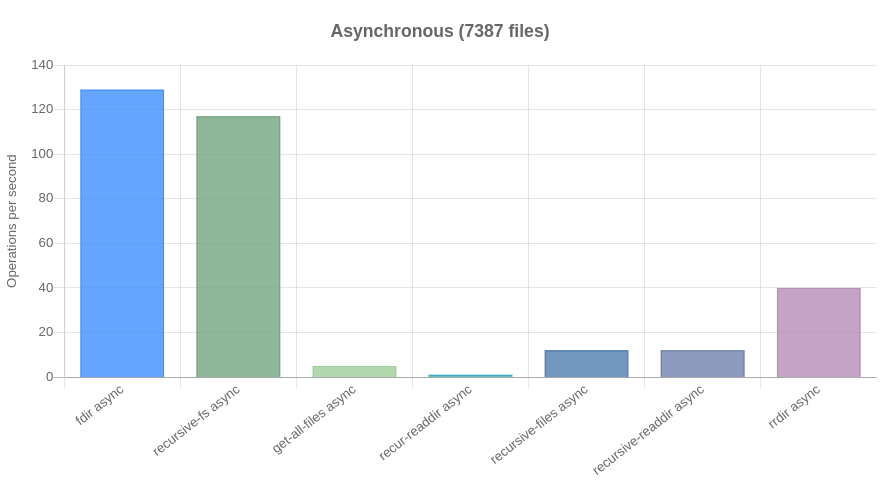
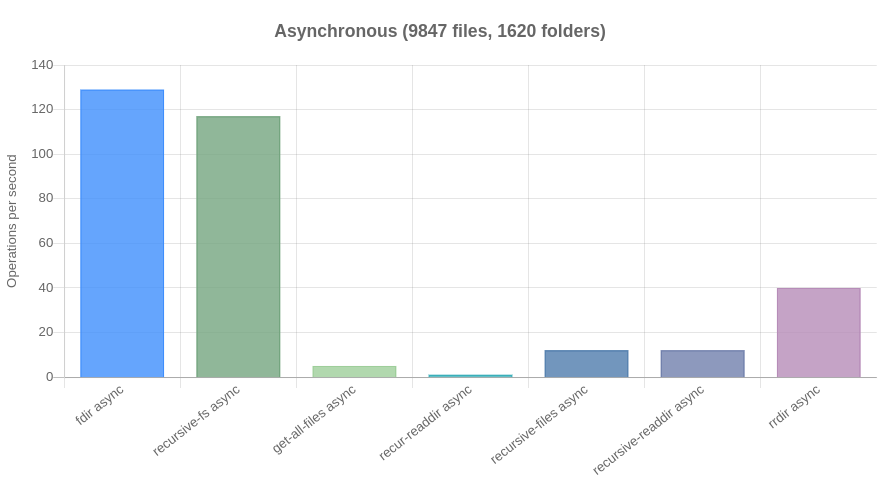
fix: correct file count in benchmarks

Changed region(s): [[0.3068, 0.0303, 0.7057, 0.0909]]

diff --git a/benchmark.js b/benchmark.js
@@ -12,7 +12,7 @@ const recursiveFs = require("recursive-fs");
 const b = require("benny");
 
 b.suite(
-  "Synchronous (7387 files)",
+  "Synchronous (9847 files, 1620 folders)",
   b.add("fdir sync", () => {
     fdir.sync("node_modules");
   }),
@@ -40,7 +40,7 @@ b.suite(
 );
 
 b.suite(
-  "Asynchronous (7387 files)",
+  "Asynchronous (9847 files, 1620 folders)",
   b.add("fdir async", async () => {
     await fdir.async("node_modules");
   }),

diff --git a/README.md b/README.md
@@ -68,7 +68,7 @@ $ yarn benchmark
 - 16 GB of RAM
 - 256 GB SSD
 - OS: Manjaro Linux
-- Directory Size: 7386 files
+- Directory Size: 9847 files, 1620 folders
 
 **Notes:**
 
@@ -83,7 +83,7 @@ $ yarn benchmark
 
 _Last updated: March 30, 2020 (fdir v2.1.0)_
 
-|                        Synchronous (7386 files)                         |                        Asynchronous (7386 files)                         |
+|                               Synchronous                               |                               Asynchronous                               |
 | :---------------------------------------------------------------------: | :----------------------------------------------------------------------: |
 | ![](https://github.com/thecodrr/fdir/raw/master/assets/node13-sync.png) | ![](https://github.com/thecodrr/fdir/raw/master/assets/node13-async.png) |
 
